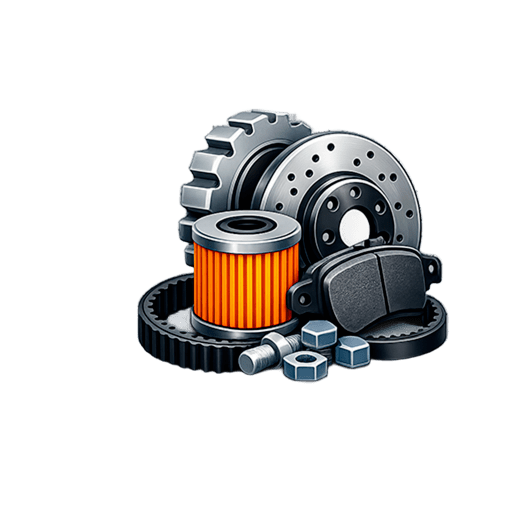
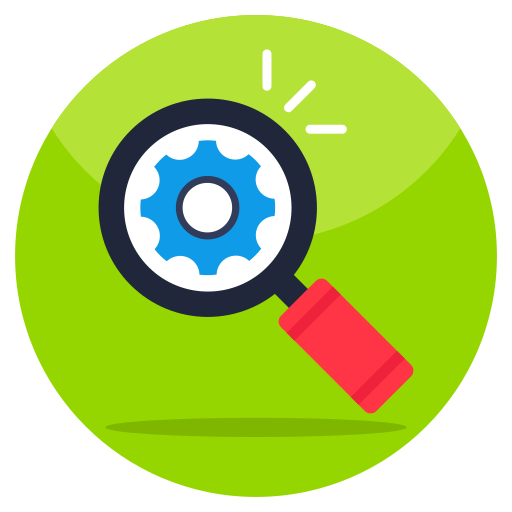
Atualizando icones

diff --git a/pageeight.html b/pageeight.html
@@ -1,0 +1,150 @@
+ <!DOCTYPE html>
+<html lang="pt-br">
+
+<head>
+	<meta http-equiv="Content-Type" content="text/html; charset=UTF-8">
+	<meta name="viewport" content="width=device-width, initial-scale=1.0">
+	<link rel="stylesheet" href="style.css">
+	<link rel="shortcut icon" href="./traffic.png">
+	<title>warranty</title>
+	<link rel="stylesheet" href="./media-query.css">
+
+
+<body>
+
+
+	<header>
+		<ul>
+			<li> <a style="text-decoration: none;" href="./index.html" target="_self"> <b> Home </b> </a>
+		</ul>
+
+	</header>
+
+	<!--<figure id="camaro">
+		<a href="index.html" target="_self"> <img src="./camaro500.png" alt="Camaro"> </a>
+	</figure> --> 
+
+	    <div id="senhaform">
+        <form>
+            <h1>Localizar Peça </h1>
+		<p style="text-align: center;">Digite a palavra-chave para localizar o código da peça desejada. Após encontrar o item, pressione <strong> Enter </strong> ou utilize o botão <strong> Atualizar </strong> para retornar à tabela completa. Caso prefira, você pode continuar com novas palavras-chave.
+ </p>
+            <input type="busca" placeholder="Buscar Peça" id="txtBusca" >
+            <input type="submit" value="Atualizar">
+    </div>
+
+	
+	<h1>Tabela de Peças, Lubrificantes e Componentes</h1>
+	
+	<div id="dvTabela">
+		
+		<table>
+			<thead>
+				<tr>
+					<th> Descrição </th>
+					<th> Código </th>
+
+				</tr>
+
+			</thead>
+				<tbody id="tbody"></tbody>
+		</table>
+		
+	</div>
+
+	<script>
+
+		var tbody = document.getElementById("tbody");
+
+		var dados = [
+			["0W20", "G8550812"],
+			["5W30", "G8550168 // G8550862"],
+			["5W30 SEMI", "F8550860"],
+			["5W30 DIESEL ", "F8552923"],
+			["DOT4", "88902484"],                                                
+			["WD40 ", "OF010021"],
+			["SILICONE", "11244 "],
+			["MASTIQUE ", "98552043"],
+			[" JUNTA DO CARTER ", "93387883 / OF010187 / 98552043"],
+			["ADITIVO P/ COMB", "88905742 / 98550670 (Diesel)"],
+			["HIGIENIZAÇÃO (OXI)", "KPA00246"],
+			["AIR CLEANER ", "OF344"],
+			["GRAXA ", "OF010283"],
+			["OPTCLEAN ", "88906763"],
+			["ADITIVO RADIADOR", "93286309"],
+			["ADITIVO RAD. PRONTO ", "93344704 "],
+			[" VEDADOR BUJAO METAL ", "11023582"],
+			[" VEDADOR BUJAO BORRACHA ", "90528145"],
+			[" VEDADOR BUJAO TURBO", "12616850"],
+			["H27 W/2 ", "13590792 "],
+			["H4 AMARELA", "13503380"],
+			["H4 AZUL", "52020055"],
+			["H7 ", "11096251"],
+			["LAMPADA  PINGO (MEIALUZ) ", "13503422"],
+			["LAMPADA DOIS POLOS ", "26241944"],
+			["BATERIA CHAVE - PILHA", "12538938"],
+			["LAMPADA FREIO ONIX", ".13591405"],
+			["LAMPADA H7 AZUL", "93353987"],
+			["", ""],
+			["", ""],
+			["", ""],
+			["", ""],
+			["", ""],
+			["", ""],
+
+
+		];
+
+
+		for (var i = 0; i <dados.length; i++) {
+			var tr = "<tr>" + 
+				"<td>" + dados[i][0] + "</td>" +
+				"<td>" + dados[i][1] + "</td>" +
+				"</tr>";
+				tbody.innerHTML += tr;
+		}
+
+		document.getElementById("txtBusca").addEventListener("keydown", function(){
+			var busca = document.getElementById("txtBusca").value.toLowerCase();
+
+			for (var i = 0; i <tbody.childNodes.length; i++) {
+				var achou = false; 
+				var tr = tbody.childNodes[i];
+				var td = tr.childNodes;
+
+				for (var j = 0; j <td.length; j++) {
+					var value = td[j].childNodes[0].nodeValue.toLowerCase();
+					console.log(value);
+					if (value.indexOf(busca) >= 0) {
+						achou = true;
+					}
+
+				}
+
+				if(achou) {
+					tr.style.display = "table-row";
+				} else {
+					tr.style.display = "none";
+				}
+			}
+		});
+
+	</script>
+
+
+	<footer>
+		<ul>
+			<li><b>Desenvolvido por Rodrigo Costa</b>
+			<li> Curitiba - PR
+			<li> 2023
+
+		</ul>
+	</footer>
+
+	<script>
+
+	</script>
+
+</body>
+
+</html>

diff --git a/index.html b/index.html
@@ -44,7 +44,7 @@
 
 				<figure class="icone-cabecalho">
 			<a href="./pagesix.html" target="_self" rel="next">
-				<img src="assets/box6.png" alt="IT." style="height: 160px;" />
+				<img src="assets/box6.png" alt="IT." style="height: 70px;" />
 				<figcaption class="short"> Localizar Peça </figcaption>
 			</a>
 		</figure>
@@ -59,7 +59,7 @@
 
 		<figure class="icone-cabecalho">
 			<a href="./pageseven.html" target="_self">
-				<img src="./assets/contatos.png" alt="Phone" style="height: 95px;" />
+				<img src="./receptor-de-telefone.png" alt="Phone" style="height: 70px;" />
 				<figcaption> Telefônes </br> Importantes </figcaption>
 			</a>
 		</figure> 
